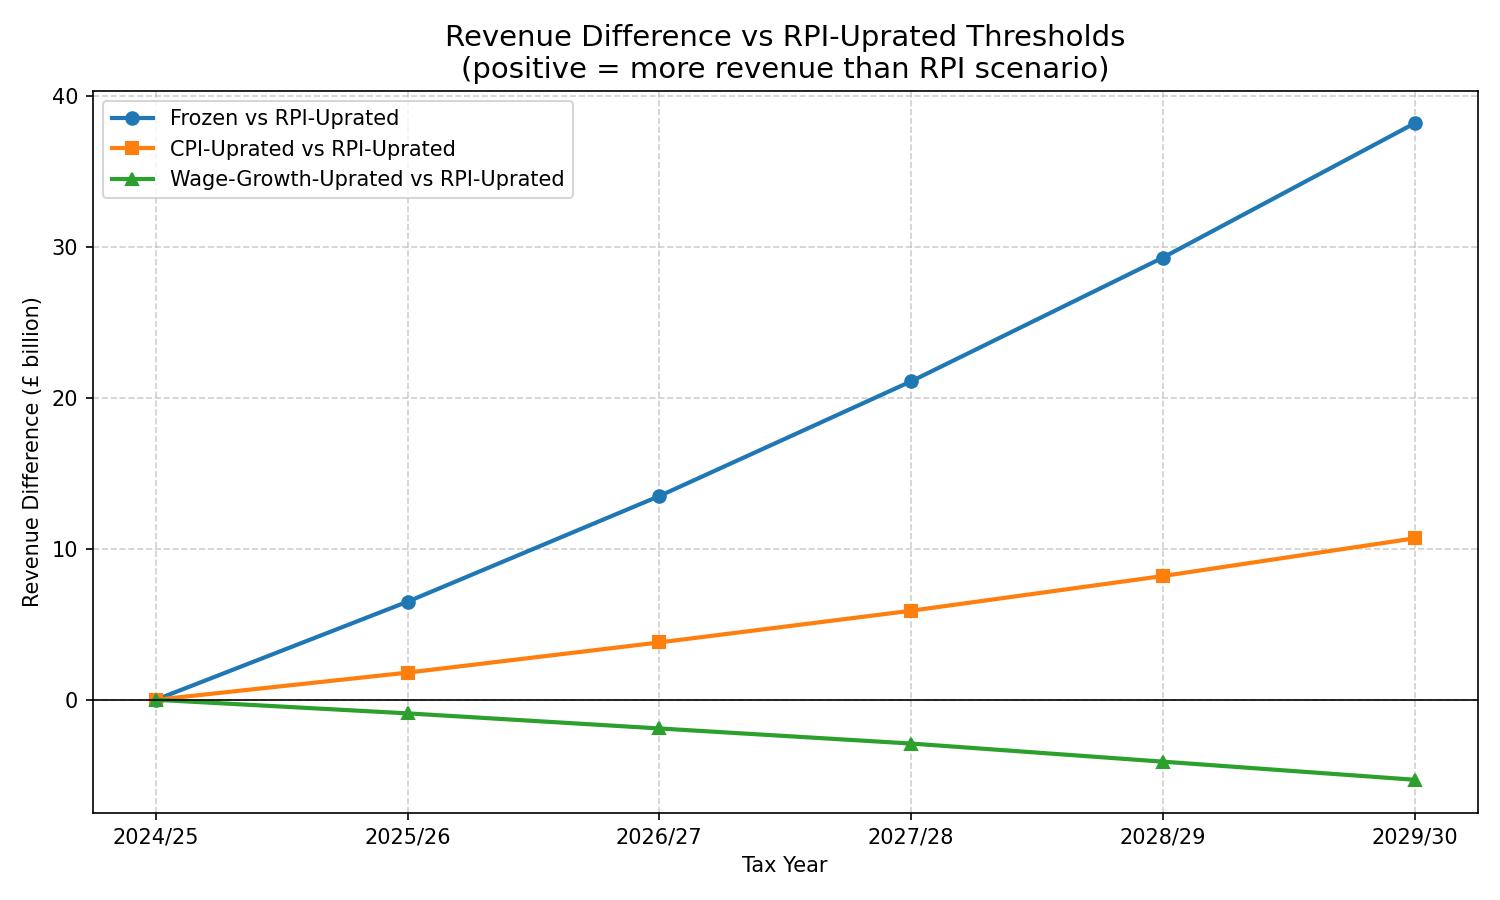
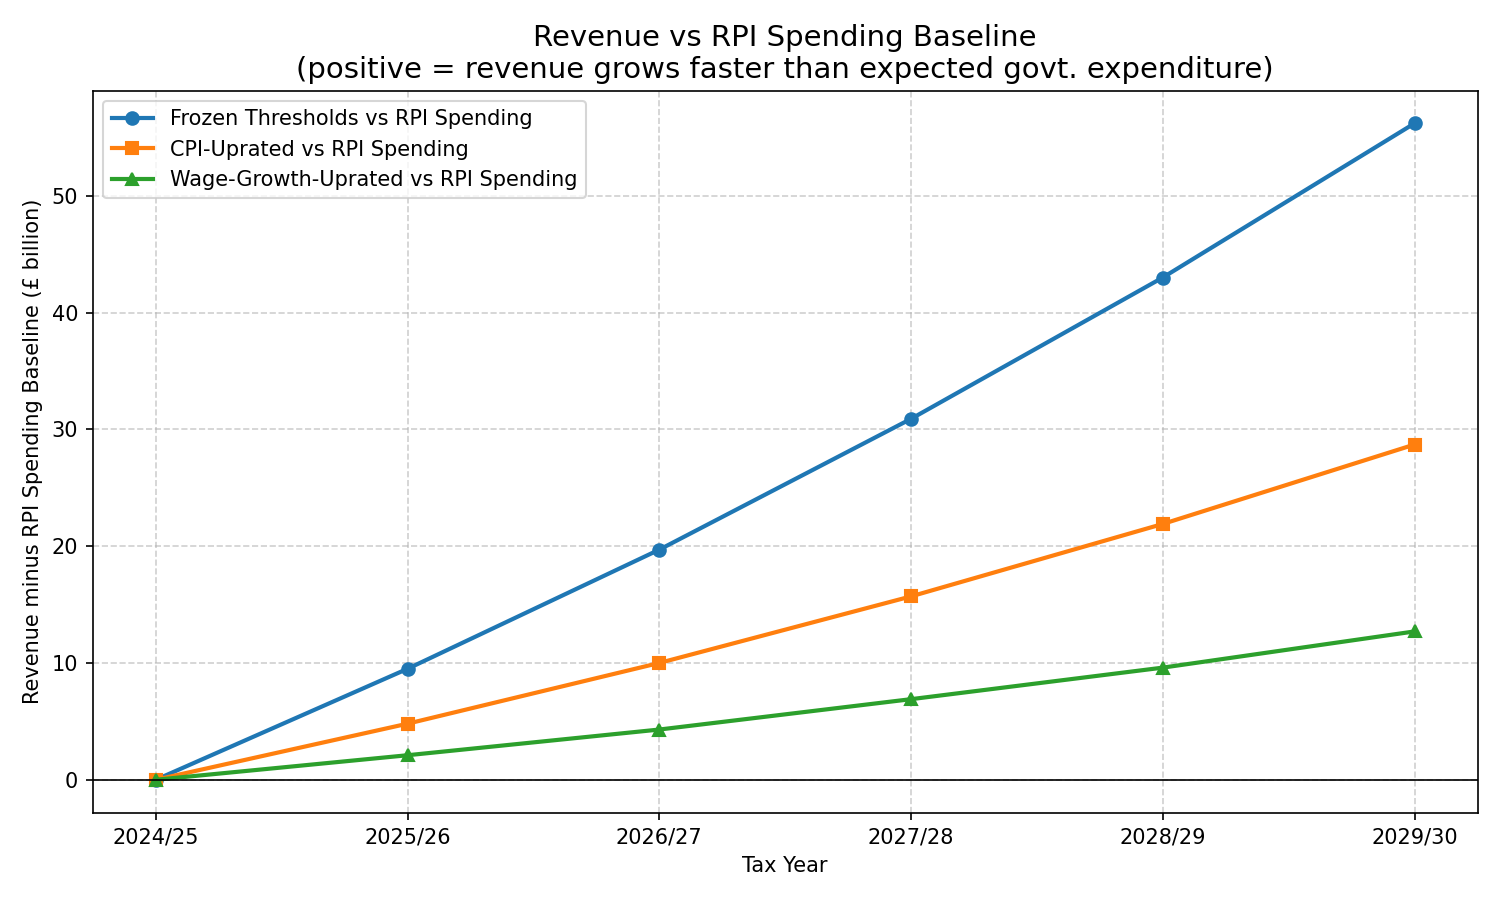
Fix RPI to be a spending-growth reference line, not a threshold scenario

diff --git a/tax_analysis.py b/tax_analysis.py
@@ -1,15 +1,17 @@
 """
 UK Income Tax Threshold Analysis
 =================================
-Analyses income tax revenue under four threshold scenarios:
+Analyses income tax revenue under three threshold scenarios:
 
   1. Frozen Thresholds  – thresholds held at 2024/25 levels (fiscal drag)
   2. Inflation-Uprated  – thresholds rise each year with CPI
   3. Wage-Growth-Uprated – thresholds rise each year with Average Weekly Earnings
-  4. RPI-Uprated         – thresholds rise each year with RPI
 
-In all scenarios wage growth drives the underlying income distribution upward,
-which is what makes scenarios 1 and 2 raise more revenue than scenario 3.
+In all scenarios wage growth (AWE) drives the underlying income distribution
+upward — only the threshold policy differs between scenarios.
+
+An RPI spending baseline is included as a reference line representing how
+government expenditure is expected to grow (indexed from the base year).
 
 Base year: 2024/25
 """
@@ -142,12 +144,21 @@ def build_scenarios(
 
     Parameters
     ----------
-    rpi_rate  : annual RPI rate (default ANNUAL_RPI)
-    cpi_rate  : annual CPI/inflation rate (default ANNUAL_INFLATION)
-    wage_rate : annual wage-growth rate (default ANNUAL_WAGE_GROWTH)
+    cpi_rate  : annual CPI/inflation rate used to uprate thresholds in scenario 2
+    rpi_rate  : annual RPI rate used as a government-spending growth proxy
+    wage_rate : annual wage-growth rate (AWE); identical across all scenarios
+
+    The ``wage_rate`` shifts every taxpayer's income each year equally in all
+    three threshold scenarios — only the threshold policy differs.
+
+    An "RPI Spending Baseline" column is computed as the base-year revenue grown
+    at ``rpi_rate`` each year, representing expected government expenditure growth.
 
     Returns a DataFrame with one row per tax year (including the base year).
     """
+    # Base-year revenue: used to anchor the RPI spending growth baseline
+    base_rev = total_revenue(PERSONAL_ALLOWANCE, BASIC_RATE_LIMIT, HIGHER_RATE_LIMIT)
+
     rows = []
     for t in range(PROJECTION_YEARS + 1):  # t=0 is the base year 2024/25
         year_label = f"{BASE_YEAR + t}/{str(BASE_YEAR + t + 1)[-2:]}"
@@ -179,20 +190,16 @@ def build_scenarios(
             income_scale=wage_scale,
         )
 
-        # Scenario 4: thresholds uprated annually with RPI
-        rev_rpi = total_revenue(
-            PERSONAL_ALLOWANCE * rpi_scale,
-            BASIC_RATE_LIMIT   * rpi_scale,
-            HIGHER_RATE_LIMIT  * rpi_scale,
-            income_scale=wage_scale,
-        )
+        # RPI spending baseline: base-year revenue grown at RPI — proxy for
+        # expected government expenditure increases over time
+        rpi_spending_baseline = base_rev * rpi_scale
 
         rows.append({
-            "Tax Year":                   year_label,
-            "Frozen Thresholds (£bn)":    round(rev_frozen, 1),
-            "Inflation-Uprated (£bn)":    round(rev_inflation, 1),
-            "Wage-Growth-Uprated (£bn)":  round(rev_wages, 1),
-            "RPI-Uprated (£bn)":          round(rev_rpi, 1),
+            "Tax Year":                      year_label,
+            "Frozen Thresholds (£bn)":       round(rev_frozen, 1),
+            "Inflation-Uprated (£bn)":       round(rev_inflation, 1),
+            "Wage-Growth-Uprated (£bn)":     round(rev_wages, 1),
+            "RPI Spending Baseline (£bn)":   round(rpi_spending_baseline, 1),
         })
 
     return pd.DataFrame(rows)
@@ -203,13 +210,13 @@ def build_scenarios(
 def print_results(df: pd.DataFrame) -> None:
     """Print the revenue table and fiscal-drag summary to stdout."""
     print("\nUK Income Tax Revenue Projections")
-    print("=" * 75)
+    print("=" * 80)
     print("Assumptions:")
-    print(f"  Annual wage growth (AWE):  {ANNUAL_WAGE_GROWTH:.1%}")
+    print(f"  Annual wage growth (AWE):  {ANNUAL_WAGE_GROWTH:.1%}  [identical across all scenarios]")
     print(f"  Annual CPI inflation:      {ANNUAL_INFLATION:.1%}")
-    print(f"  Annual RPI inflation:      {ANNUAL_RPI:.1%}")
+    print(f"  Annual RPI inflation:      {ANNUAL_RPI:.1%}  [spending growth proxy]")
     print(f"  Number of taxpayers:       {NUM_TAXPAYERS:,}")
-    print("=" * 75)
+    print("=" * 80)
     print(df.to_string(index=False))
     print()
 
@@ -221,9 +228,6 @@ def print_results(df: pd.DataFrame) -> None:
     drag["vs Wage Growth (£bn)"] = (
         df["Frozen Thresholds (£bn)"] - df["Wage-Growth-Uprated (£bn)"]
     ).round(1)
-    drag["vs RPI (£bn)"] = (
-        df["Frozen Thresholds (£bn)"] - df["RPI-Uprated (£bn)"]
-    ).round(1)
 
     print("Fiscal Drag (extra revenue from frozen thresholds vs each scenario):")
     print(drag.to_string(index=False))
@@ -231,17 +235,18 @@ def print_results(df: pd.DataFrame) -> None:
 
 
 def plot_results(df: pd.DataFrame, output_path: str = "tax_revenue_scenarios.png") -> None:
-    """Save a line chart comparing the four scenarios."""
+    """Save a line chart comparing the three scenarios with an RPI spending baseline."""
     fig, ax = plt.subplots(figsize=(10, 6))
 
     ax.plot(df["Tax Year"], df["Frozen Thresholds (£bn)"],
             marker="o", linewidth=2, label="Frozen Thresholds")
     ax.plot(df["Tax Year"], df["Inflation-Uprated (£bn)"],
             marker="s", linewidth=2, label="Inflation-Uprated (CPI)")
-    ax.plot(df["Tax Year"], df["RPI-Uprated (£bn)"],
-            marker="D", linewidth=2, linestyle="--", label="RPI-Uprated")
     ax.plot(df["Tax Year"], df["Wage-Growth-Uprated (£bn)"],
             marker="^", linewidth=2, label="Wage-Growth-Uprated (AWE)")
+    ax.plot(df["Tax Year"], df["RPI Spending Baseline (£bn)"],
+            linewidth=2, linestyle="--", color="grey",
+            label="RPI Spending Baseline (govt. expenditure proxy)")
 
     ax.set_title("UK Income Tax Revenue by Threshold Scenario", fontsize=14)
     ax.set_xlabel("Tax Year")
@@ -259,38 +264,40 @@ def plot_rpi_comparison(
     output_path: str = "tax_revenue_vs_rpi.png",
 ) -> None:
     """
-    Save a chart showing the revenue gap between each scenario and
-    RPI-uprated thresholds (as an analogue for expected expenditure increases).
+    Save a chart showing how each scenario's revenue compares to the RPI
+    spending baseline (a proxy for expected government expenditure growth).
 
-    A positive value means the scenario raises *more* revenue than RPI-uprating
-    (i.e. additional fiscal drag relative to RPI growth).
+    A positive value means the scenario raises *more* revenue than spending is
+    expected to increase; a negative value means revenue lags behind spending.
     """
     fig, ax = plt.subplots(figsize=(10, 6))
 
+    baseline = df["RPI Spending Baseline (£bn)"]
+
     ax.plot(
         df["Tax Year"],
-        df["Frozen Thresholds (£bn)"] - df["RPI-Uprated (£bn)"],
-        marker="o", linewidth=2, label="Frozen vs RPI-Uprated",
+        df["Frozen Thresholds (£bn)"] - baseline,
+        marker="o", linewidth=2, label="Frozen Thresholds vs RPI Spending",
     )
     ax.plot(
         df["Tax Year"],
-        df["Inflation-Uprated (£bn)"] - df["RPI-Uprated (£bn)"],
-        marker="s", linewidth=2, label="CPI-Uprated vs RPI-Uprated",
+        df["Inflation-Uprated (£bn)"] - baseline,
+        marker="s", linewidth=2, label="CPI-Uprated vs RPI Spending",
     )
     ax.plot(
         df["Tax Year"],
-        df["Wage-Growth-Uprated (£bn)"] - df["RPI-Uprated (£bn)"],
-        marker="^", linewidth=2, label="Wage-Growth-Uprated vs RPI-Uprated",
+        df["Wage-Growth-Uprated (£bn)"] - baseline,
+        marker="^", linewidth=2, label="Wage-Growth-Uprated vs RPI Spending",
     )
     ax.axhline(0, color="black", linewidth=0.8)
 
     ax.set_title(
-        "Revenue Difference vs RPI-Uprated Thresholds\n"
-        "(positive = more revenue than RPI scenario)",
+        "Revenue vs RPI Spending Baseline\n"
+        "(positive = revenue grows faster than expected govt. expenditure)",
         fontsize=14,
     )
     ax.set_xlabel("Tax Year")
-    ax.set_ylabel("Revenue Difference (£ billion)")
+    ax.set_ylabel("Revenue minus RPI Spending Baseline (£ billion)")
     ax.legend()
     ax.grid(True, linestyle="--", alpha=0.6)
     plt.tight_layout()

diff --git a/dashboard.py b/dashboard.py
@@ -64,8 +64,8 @@ rpi_rate = (
         value=round(ANNUAL_RPI * 100, 1),
         step=0.1,
         help=(
-            "Retail Prices Index used to uprate thresholds in the RPI scenario "
-            "and as a proxy for expected expenditure increases."
+            "Retail Prices Index used as a proxy for expected government "
+            "expenditure increases. Drawn as a reference line on both charts."
         ),
     )
     / 100
@@ -87,6 +87,11 @@ col1, col2 = st.columns(2)
 
 with col1:
     st.subheader("Revenue by Threshold Scenario")
+    st.caption(
+        "All scenarios use the same wage growth rate — only the threshold "
+        "uprating policy differs.  The dashed grey line shows how government "
+        "spending is expected to grow (RPI proxy)."
+    )
 
     fig1, ax1 = plt.subplots(figsize=(7, 5))
     ax1.plot(
@@ -98,13 +103,13 @@ with col1:
         marker="s", linewidth=2, label=f"CPI-Uprated ({cpi_rate:.1%})",
     )
     ax1.plot(
-        df["Tax Year"], df["RPI-Uprated (£bn)"],
-        marker="D", linewidth=2, linestyle="--",
-        label=f"RPI-Uprated ({rpi_rate:.1%})",
-    )
-    ax1.plot(
         df["Tax Year"], df["Wage-Growth-Uprated (£bn)"],
         marker="^", linewidth=2, label=f"Wage-Growth-Uprated ({wage_rate:.1%})",
+    )
+    ax1.plot(
+        df["Tax Year"], df["RPI Spending Baseline (£bn)"],
+        linewidth=2, linestyle="--", color="grey",
+        label=f"RPI Spending Baseline ({rpi_rate:.1%})",
     )
     ax1.set_xlabel("Tax Year")
     ax1.set_ylabel("Income Tax Revenue (£ billion)")
@@ -117,32 +122,36 @@ with col1:
 # ── Plot 2 – revenue gap vs RPI ───────────────────────────────────────────────
 
 with col2:
-    st.subheader("Revenue vs RPI-Uprated Thresholds")
+    st.subheader("Revenue vs RPI Spending Baseline")
     st.caption(
-        "Positive values indicate more revenue than the RPI-uprated scenario "
-        "(additional fiscal drag relative to RPI expenditure growth)."
+        "Shows how much more (or less) revenue each scenario raises compared "
+        "to the RPI spending baseline.  Positive = revenue grows faster than "
+        "expected government expenditure."
     )
+
+    baseline = df["RPI Spending Baseline (£bn)"]
 
     fig2, ax2 = plt.subplots(figsize=(7, 5))
     ax2.plot(
         df["Tax Year"],
-        df["Frozen Thresholds (£bn)"] - df["RPI-Uprated (£bn)"],
-        marker="o", linewidth=2, label="Frozen vs RPI-Uprated",
+        df["Frozen Thresholds (£bn)"] - baseline,
+        marker="o", linewidth=2, label="Frozen Thresholds vs RPI Spending",
     )
     ax2.plot(
         df["Tax Year"],
-        df["Inflation-Uprated (£bn)"] - df["RPI-Uprated (£bn)"],
-        marker="s", linewidth=2, label=f"CPI ({cpi_rate:.1%}) vs RPI ({rpi_rate:.1%})",
+        df["Inflation-Uprated (£bn)"] - baseline,
+        marker="s", linewidth=2,
+        label=f"CPI ({cpi_rate:.1%}) vs RPI ({rpi_rate:.1%}) Spending",
     )
     ax2.plot(
         df["Tax Year"],
-        df["Wage-Growth-Uprated (£bn)"] - df["RPI-Uprated (£bn)"],
+        df["Wage-Growth-Uprated (£bn)"] - baseline,
         marker="^", linewidth=2,
-        label=f"Wage-Growth ({wage_rate:.1%}) vs RPI ({rpi_rate:.1%})",
+        label=f"Wage-Growth ({wage_rate:.1%}) vs RPI ({rpi_rate:.1%}) Spending",
     )
     ax2.axhline(0, color="black", linewidth=0.8)
     ax2.set_xlabel("Tax Year")
-    ax2.set_ylabel("Revenue Difference (£ billion)")
+    ax2.set_ylabel("Revenue minus RPI Spending Baseline (£ billion)")
     ax2.legend(fontsize=9)
     ax2.grid(True, linestyle="--", alpha=0.6)
     plt.tight_layout()
@@ -157,9 +166,6 @@ with st.expander("Show full data table"):
     drag = df[["Tax Year"]].copy()
     drag["Frozen vs CPI (£bn)"] = (
         df["Frozen Thresholds (£bn)"] - df["Inflation-Uprated (£bn)"]
-    ).round(1)
-    drag["Frozen vs RPI (£bn)"] = (
-        df["Frozen Thresholds (£bn)"] - df["RPI-Uprated (£bn)"]
     ).round(1)
     drag["Frozen vs Wages (£bn)"] = (
         df["Frozen Thresholds (£bn)"] - df["Wage-Growth-Uprated (£bn)"]

diff --git a/tests/test_tax_analysis.py b/tests/test_tax_analysis.py
@@ -190,27 +190,23 @@ class TestBuildScenariosRPI:
     def setup_method(self):
         self.df = build_scenarios()
 
-    def test_rpi_column_present(self):
-        """RPI-Uprated column should be present in the output."""
-        assert "RPI-Uprated (£bn)" in self.df.columns
+    def test_rpi_spending_baseline_column_present(self):
+        """RPI Spending Baseline column should be present in the output."""
+        assert "RPI Spending Baseline (£bn)" in self.df.columns
 
-    def test_rpi_uprated_between_cpi_and_wages(self):
-        """With default rates (RPI > CPI, RPI < wage growth), RPI-uprated revenue
-        should be between inflation-uprated and wage-growth-uprated revenue."""
-        for _, row in self.df.iterrows():
-            assert row["RPI-Uprated (£bn)"] <= row["Inflation-Uprated (£bn)"], (
-                f"RPI-uprated should be <= CPI-uprated for {row['Tax Year']}"
-            )
-            assert row["RPI-Uprated (£bn)"] >= row["Wage-Growth-Uprated (£bn)"], (
-                f"RPI-uprated should be >= wage-uprated for {row['Tax Year']}"
-            )
+    def test_rpi_uprated_scenario_column_absent(self):
+        """RPI should not appear as a threshold scenario column."""
+        assert "RPI-Uprated (£bn)" not in self.df.columns
 
-    def test_frozen_exceeds_rpi_uprated(self):
-        """Frozen thresholds should raise more revenue than RPI-uprated thresholds."""
-        for _, row in self.df.iterrows():
-            assert row["Frozen Thresholds (£bn)"] >= row["RPI-Uprated (£bn)"], (
-                f"Failed for {row['Tax Year']}"
-            )
+    def test_rpi_spending_baseline_equals_frozen_at_base_year(self):
+        """At t=0 (base year) the RPI spending baseline equals the frozen-threshold revenue."""
+        base_row = self.df.iloc[0]
+        assert base_row["RPI Spending Baseline (£bn)"] == base_row["Frozen Thresholds (£bn)"]
+
+    def test_rpi_spending_baseline_grows_over_time(self):
+        """RPI spending baseline should increase each year."""
+        values = self.df["RPI Spending Baseline (£bn)"].tolist()
+        assert all(values[i] <= values[i + 1] for i in range(len(values) - 1))
 
     def test_custom_rates_accepted(self):
         """build_scenarios() should accept custom rpi/cpi/wage rate arguments."""
